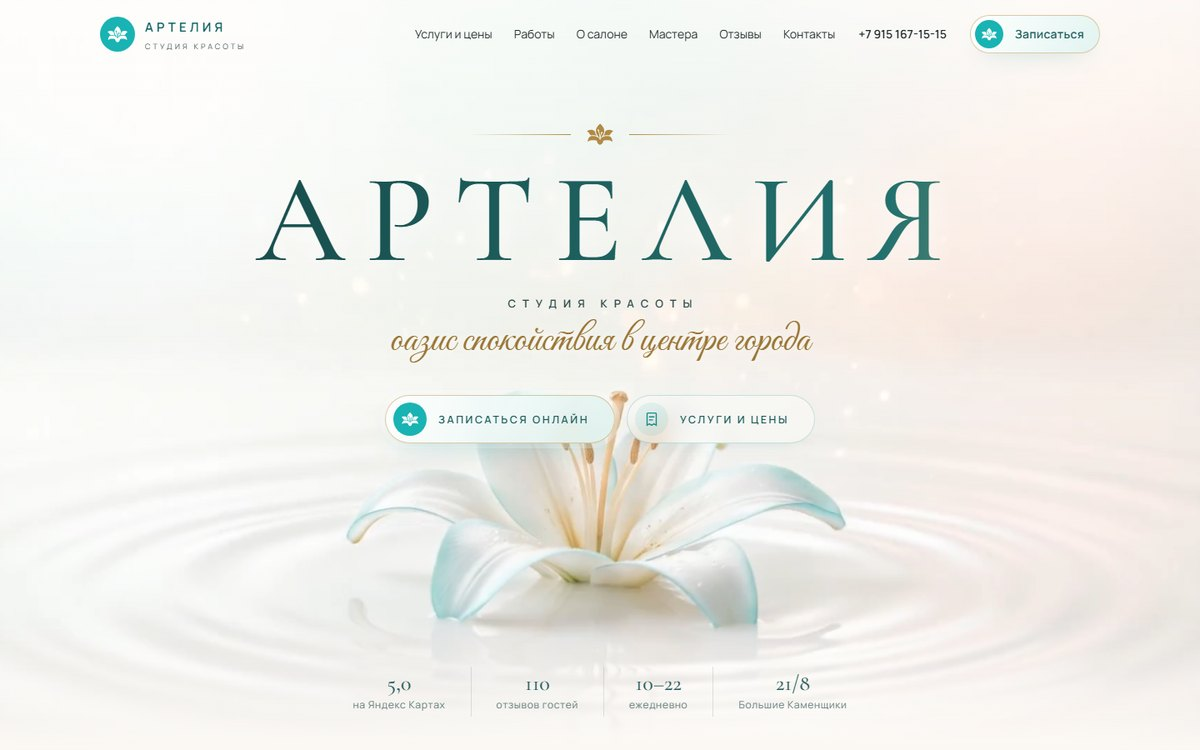
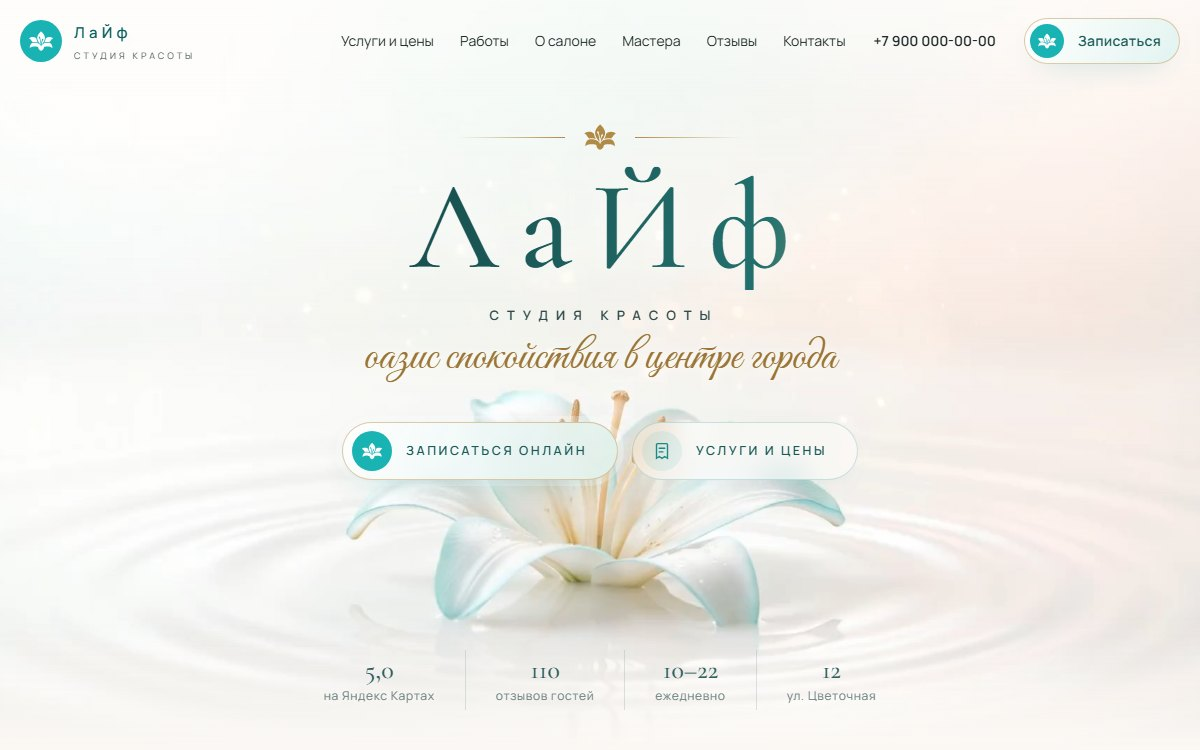
Portfolio: rename Artelia demo to LaYf, replace phone and address with demo data

diff --git a/artelia/index.html b/artelia/index.html
@@ -3,8 +3,8 @@
 <head>
 <meta charset="utf-8">
 <meta name="viewport" content="width=device-width,initial-scale=1">
-<title>Артелия — студия красоты в Москве · Большие Каменщики, 21/8</title>
-<meta name="description" content="Артелия — студия красоты в центре Москвы: маникюр, педикюр, окрашивание L’Oréal, стрижки, Brow Bar, ресницы, визаж, SPA. Ежедневно 10:00–22:00. Онлайн-запись.">
+<title>ЛаЙф — студия красоты в Москве · ул. Цветочная, 12</title>
+<meta name="description" content="ЛаЙф — студия красоты в центре Москвы: маникюр, педикюр, окрашивание L’Oréal, стрижки, Brow Bar, ресницы, визаж, SPA. Ежедневно 10:00–22:00. Онлайн-запись.">
 <link rel="icon" type="image/svg+xml" href="img/favicon.svg">
 <meta name="theme-color" content="#f6fbfa">
 <link rel="preconnect" href="https://fonts.googleapis.com"><link rel="preconnect" href="https://fonts.gstatic.com" crossorigin>
@@ -85,7 +85,7 @@ nav a:hover::after{right:0}
 .hero video{opacity:0;transition:opacity 1.6s ease}.hero video.ready{opacity:1}
 .hero .veil{position:absolute;inset:0;background:linear-gradient(180deg,rgba(253,252,250,.72) 0%,rgba(253,252,250,.25) 42%,rgba(253,252,250,0) 60%,rgba(251,245,240,.0) 82%,#fbf8f4 100%)}
 .hero-in{position:relative;z-index:2}
-/* надпись «Артелия»: золотые линии + лилия, буквы-«фольга» с бегущим бликом */
+/* надпись «ЛаЙф»: золотые линии + лилия, буквы-«фольга» с бегущим бликом */
 .brand{display:flex;flex-direction:column;align-items:center}
 .orn{display:flex;align-items:center;gap:18px;color:#b08a46}
 .orn i{display:block;height:1px;width:0;background:linear-gradient(90deg,transparent,#b08a46);transition:width 1.8s var(--ease) .3s}
@@ -439,14 +439,14 @@ nav a{white-space:nowrap}
 
 <header id="hd">
   <div class="wrap hd">
-    <a class="logo" href="#top" aria-label="Артелия — на главную">
+    <a class="logo" href="#top" aria-label="ЛаЙф — на главную">
       <span class="mk"><svg class="lily" viewBox="0 0 100 100" fill="currentColor"><use href="#lily"/></svg></span>
-      <span><b>АРТЕЛИЯ</b><small>студия красоты</small></span>
+      <span><b style="text-transform:none">ЛаЙф</b><small>студия красоты</small></span>
     </a>
     <nav id="nav">
       <a href="#services">Услуги и цены</a><a href="#works">Работы</a><a href="#about">О салоне</a><a href="#masters">Мастера</a><a href="#reviews">Отзывы</a><a href="#contacts">Контакты</a>
     </nav>
-    <a class="hd-tel" href="tel:+79151671515">+7 915 167-15-15</a>
+    <a class="hd-tel" href="tel:+79000000000">+7 900 000-00-00</a>
     <a class="btn btn-main" href="#services"><span class="bud"><svg class="lily" viewBox="0 0 100 100" fill="currentColor"><use href="#lily"/></svg></span>Записаться</a>
     <button class="burger" id="burger" aria-label="Меню"><i></i><i></i><i></i></button>
   </div>
@@ -461,7 +461,7 @@ nav a{white-space:nowrap}
   <div class="hero-in wrap">
     <div class="brand">
       <div class="orn"><i></i><svg class="lily" viewBox="0 0 100 100" fill="currentColor"><use href="#lily"/></svg><i></i></div>
-      <h1>Артелия</h1>
+      <h1 style="text-transform:none">ЛаЙф</h1>
       <p class="sub fade" style="transition-delay:1.1s">студия красоты</p>
     </div>
     <p class="script fade" style="transition-delay:1.5s">оазис спокойствия в центре города</p>
@@ -474,7 +474,7 @@ nav a{white-space:nowrap}
       <div><b>5,0</b>на Яндекс Картах</div>
       <div><b>110</b>отзывов гостей</div>
       <div><b>10–22</b>ежедневно</div>
-      <div><b>21/8</b>Большие Каменщики</div>
+      <div><b>12</b>ул. Цветочная</div>
     </div>
 </section>
 
@@ -518,12 +518,12 @@ nav a{white-space:nowrap}
     <div class="eyebrow rv">Подарочные сертификаты</div>
     <h2 class="rv">Подарите <em>время для себя</em></h2>
     <div class="gifts">
-      <div class="gift c1 rv"><svg class="bg-lily" viewBox="0 0 100 100" fill="#fff"><use href="#lily"/></svg><span class="gd"></span><div class="gl">Артелия · сертификат</div><h3>Classic</h3><div class="sum">2 000 ₽</div></div>
-      <div class="gift c2 rv" style="transition-delay:.1s"><svg class="bg-lily" viewBox="0 0 100 100" fill="#fff"><use href="#lily"/></svg><span class="gd"></span><div class="gl">Артелия · сертификат</div><h3>Standart</h3><div class="sum">3 000 ₽</div></div>
-      <div class="gift c3 rv" style="transition-delay:.2s"><svg class="bg-lily" viewBox="0 0 100 100" fill="#fff"><use href="#lily"/></svg><span class="gd"></span><div class="gl">Артелия · сертификат</div><h3>Premium</h3><div class="sum">5 000 ₽</div></div>
+      <div class="gift c1 rv"><svg class="bg-lily" viewBox="0 0 100 100" fill="#fff"><use href="#lily"/></svg><span class="gd"></span><div class="gl">ЛаЙф · сертификат</div><h3>Classic</h3><div class="sum">2 000 ₽</div></div>
+      <div class="gift c2 rv" style="transition-delay:.1s"><svg class="bg-lily" viewBox="0 0 100 100" fill="#fff"><use href="#lily"/></svg><span class="gd"></span><div class="gl">ЛаЙф · сертификат</div><h3>Standart</h3><div class="sum">3 000 ₽</div></div>
+      <div class="gift c3 rv" style="transition-delay:.2s"><svg class="bg-lily" viewBox="0 0 100 100" fill="#fff"><use href="#lily"/></svg><span class="gd"></span><div class="gl">ЛаЙф · сертификат</div><h3>Premium</h3><div class="sum">5 000 ₽</div></div>
     </div>
     <div class="gifts-cta rv">
-      <a class="btn btn-main" href="#" data-wa="Здравствуйте! Хочу купить подарочный сертификат Артелия."><span class="bud"><svg class="lily" viewBox="0 0 100 100" fill="currentColor"><use href="#lily"/></svg></span>Заказать сертификат</a>
+      <a class="btn btn-main" href="#" data-wa="Здравствуйте! Хочу купить подарочный сертификат ЛаЙф."><span class="bud"><svg class="lily" viewBox="0 0 100 100" fill="currentColor"><use href="#lily"/></svg></span>Заказать сертификат</a>
       <span style="color:var(--muted);font-size:14px">Оформим красиво — можно забрать в салоне</span>
     </div>
   </div>
@@ -566,7 +566,7 @@ nav a{white-space:nowrap}
           <label class="fld"><span>Ваше имя</span><input id="fname" autocomplete="given-name" placeholder="Как к вам обращаться"></label>
           <label class="fld"><span>Телефон</span><input id="fphone" type="tel" autocomplete="tel" placeholder="+7 (___) ___-__-__"></label>
           <label class="fld"><span>Комментарий</span><textarea id="fnote" rows="2" placeholder="Пожелания, длина волос, дизайн ногтей…"></textarea></label>
-          <p class="note">Нажимая «Отправить», вы соглашаетесь с <a href="https://drive.google.com/file/d/1Kv95Rzp1uiypy0OgzTfH0oAZEqJ2-D4X/view?usp=sharing" target="_blank" rel="noopener" style="border-bottom:1px solid var(--gold-l)">обработкой персональных данных</a>.</p>
+          <p class="note">Нажимая «Отправить», вы соглашаетесь с <a href="#" target="_blank" rel="noopener" style="border-bottom:1px solid var(--gold-l)">обработкой персональных данных</a>.</p>
         </div>
       </div>
       <aside class="visit rv" id="visit" style="scroll-margin-top:84px">
@@ -655,7 +655,7 @@ nav a{white-space:nowrap}
       <div class="rate">5,0</div>
       <div class="stars">★★★★★</div>
       <p class="lead" style="margin-top:14px">110 отзывов на Яндекс Картах</p>
-      <a class="btn btn-ghost" style="margin-top:26px" href="https://yandex.ru/maps/org/197100926797/reviews/" target="_blank" rel="noopener"><span class="bud"><svg class="lily" viewBox="0 0 100 100" fill="currentColor"><use href="#lily"/></svg></span>Читать все отзывы</a>
+      <a class="btn btn-ghost" style="margin-top:26px" href="#reviews" target="_blank" rel="noopener"><span class="bud"><svg class="lily" viewBox="0 0 100 100" fill="currentColor"><use href="#lily"/></svg></span>Читать все отзывы</a>
     </div>
     <div class="rev-box rv">
       <div class="qm">“</div>
@@ -672,21 +672,21 @@ nav a{white-space:nowrap}
     <h2 class="rv">Ждём вас <em>в гости</em></h2>
     <div class="ct-g">
       <div class="ct-card rv">
-        <div class="addr">Москва,<br>ул. Большие Каменщики, 21/8</div>
+        <div class="addr">Москва,<br>ул. Цветочная, 12</div>
         <dl>
           <dt>Часы работы</dt><dd>Ежедневно, 10:00–22:00 <span id="openNow" style="color:var(--teal-d);font-weight:600"></span></dd>
-          <dt>Телефон</dt><dd><a href="tel:+79151671515">+7 915 167-15-15</a></dd>
-          <dt>Как доехать</dt><dd><a href="https://yandex.ru/maps/?rtext=~55.735677,37.65699&rtt=auto" target="_blank" rel="noopener">Построить маршрут</a></dd>
+          <dt>Телефон</dt><dd><a href="tel:+79000000000">+7 900 000-00-00</a></dd>
+          <dt>Как доехать</dt><dd><a href="https://yandex.ru/maps/?rtext=~55.7558,37.6173&rtt=auto" target="_blank" rel="noopener">Построить маршрут</a></dd>
           <dt>Удобства</dt><dd>Парковка, Wi‑Fi, оплата картой</dd>
         </dl>
         <div class="socs">
-          <a href="https://wa.me/79151671515" target="_blank" rel="noopener">WhatsApp</a>
-          <a href="https://t.me/arteliaaaaa" target="_blank" rel="noopener">Telegram</a>
-          <a href="https://vk.ru/club236209753" target="_blank" rel="noopener">ВКонтакте</a>
-          <a href="https://max.ru/join/g575b3gF1ZYqdeo7p6HdIVQ3R1XQzKgaco8oCC1gjvQ" target="_blank" rel="noopener">Канал в Max</a>
+          <a href="https://wa.me/79000000000" target="_blank" rel="noopener">WhatsApp</a>
+          <a href="#" target="_blank" rel="noopener">Telegram</a>
+          <a href="#" target="_blank" rel="noopener">ВКонтакте</a>
+          <a href="#" target="_blank" rel="noopener">Канал в Max</a>
         </div>
       </div>
-      <div class="map rv"><iframe title="Артелия на карте" loading="lazy" src="https://yandex.ru/map-widget/v1/?ll=37.656990%2C55.735677&z=16&pt=37.656990%2C55.735677%2Cpm2gnm"></iframe></div>
+      <div class="map rv"><iframe title="ЛаЙф на карте" loading="lazy" src="https://yandex.ru/map-widget/v1/?ll=37.617300%2C55.755800&z=16&pt=37.617300%2C55.755800%2Cpm2gnm"></iframe></div>
     </div>
   </div>
 </section>
@@ -695,18 +695,18 @@ nav a{white-space:nowrap}
 <footer>
   <div class="wrap">
     <div class="ft">
-      <div><div class="big">Артелия</div><p class="script" style="font-size:34px;color:var(--gold);margin-top:6px">студия красоты</p></div>
+      <div><div class="big" style="text-transform:none">ЛаЙф</div><p class="script" style="font-size:34px;color:var(--gold);margin-top:6px">студия красоты</p></div>
       <div><h5>Салон</h5><a href="#services">Услуги и цены</a><a href="#promo">Акции</a><a href="#gifts">Сертификаты</a><a href="#works">Работы</a><a href="#reviews">Отзывы</a></div>
-      <div><h5>Связь</h5><a href="tel:+79151671515">+7 915 167-15-15</a><a href="https://wa.me/79151671515" target="_blank" rel="noopener">WhatsApp</a><a href="https://t.me/arteliaaaaa" target="_blank" rel="noopener">Telegram</a><p>Большие Каменщики, 21/8<br>ежедневно 10:00–22:00</p></div>
+      <div><h5>Связь</h5><a href="tel:+79000000000">+7 900 000-00-00</a><a href="https://wa.me/79000000000" target="_blank" rel="noopener">WhatsApp</a><a href="#" target="_blank" rel="noopener">Telegram</a><p>ул. Цветочная, 12<br>ежедневно 10:00–22:00</p></div>
     </div>
     <div class="legal">
-      <span>© <span id="yr"></span> Артелия · ИП Ахромина Наталья Германовна</span>
-      <span><a href="https://drive.google.com/file/d/1Sjd918erkLfy0k1FO5l5yW-FLNi3WIou/view?usp=drive_link" target="_blank" rel="noopener">Публичная оферта</a> · <a href="https://drive.google.com/file/d/1_8r2j_rk8HgPZwWjdrxEYg-YrL-tH8IZ/view?usp=sharing" target="_blank" rel="noopener">Политика конфиденциальности</a> · <a href="https://drive.google.com/file/d/1Kv95Rzp1uiypy0OgzTfH0oAZEqJ2-D4X/view?usp=sharing" target="_blank" rel="noopener">Согласие на обработку ПД</a></span>
+      <span>© <span id="yr"></span> ЛаЙф · демо-проект студии Davydov</span>
+      <span><a href="#" target="_blank" rel="noopener">Публичная оферта</a> · <a href="#" target="_blank" rel="noopener">Политика конфиденциальности</a> · <a href="#" target="_blank" rel="noopener">Согласие на обработку ПД</a></span>
     </div>
   </div>
 </footer>
 
-<div class="mcta"><a class="a1" href="#services">Записаться</a><a class="a2" href="tel:+79151671515">Позвонить</a></div>
+<div class="mcta"><a class="a1" href="#services">Записаться</a><a class="a2" href="tel:+79000000000">Позвонить</a></div>
 <div class="lbx" id="lbx"><img id="lbxImg" alt=""><button class="x" aria-label="Закрыть">✕</button><button class="pv" aria-label="Назад">←</button><button class="nx" aria-label="Вперёд">→</button></div>
 <div class="toast" id="toast"></div>
 
@@ -715,7 +715,7 @@ nav a{white-space:nowrap}
 /* ===== Настройки заявок =====
    Если указать tgToken и tgChatId — заявка уйдёт в Telegram-бота салона.
    Иначе откроется WhatsApp салона с готовым текстом заявки. */
-const CONFIG={tgToken:'',tgChatId:'',whatsapp:'79151671515'};
+const CONFIG={tgToken:'',tgChatId:'',whatsapp:'79000000000'};
 
 const $=s=>document.querySelector(s),$$=s=>[...document.querySelectorAll(s)];
 const LP=document.querySelector('#lily .lily-g').innerHTML;
@@ -824,7 +824,7 @@ function renderVisit(){const it=[...cart.entries()];
  else{b.disabled=!ok;t.textContent=ok?'Отправить заявку':'Укажите имя и телефон'}}
 $('#vlist').onclick=e=>{const b=e.target.closest('button[data-k]');if(!b)return;cart.delete(b.dataset.k);renderList();renderVisit()};
 $('#send').onclick=async()=>{if(step<2){go(step+1);$('#services').scrollIntoView({behavior:'smooth'});return}
- const it=[...cart.values()];const txt=`Заявка с сайта Артелия\n\nУслуги:\n${it.map(v=>'• '+v.n+(v.p?' — '+fmt(v.p):'')).join('\n')}\nИтого от: ${fmt(it.reduce((a,v)=>a+v.p,0))}\n\nКогда: ${$('#vwhen').textContent.replace('🗓 ','')||'уточнить'}\nМастер: ${selM}\nИмя: ${$('#fname').value.trim()}\nТелефон: ${$('#fphone').value.trim()}${$('#fnote').value.trim()?'\nКомментарий: '+$('#fnote').value.trim():''}`;
+ const it=[...cart.values()];const txt=`Заявка с сайта ЛаЙф\n\nУслуги:\n${it.map(v=>'• '+v.n+(v.p?' — '+fmt(v.p):'')).join('\n')}\nИтого от: ${fmt(it.reduce((a,v)=>a+v.p,0))}\n\nКогда: ${$('#vwhen').textContent.replace('🗓 ','')||'уточнить'}\nМастер: ${selM}\nИмя: ${$('#fname').value.trim()}\nТелефон: ${$('#fphone').value.trim()}${$('#fnote').value.trim()?'\nКомментарий: '+$('#fnote').value.trim():''}`;
  if(CONFIG.tgToken&&CONFIG.tgChatId){try{const r=await fetch(`https://api.telegram.org/bot${CONFIG.tgToken}/sendMessage`,{method:'POST',headers:{'content-type':'application/json'},body:JSON.stringify({chat_id:CONFIG.tgChatId,text:txt})});if(!r.ok)throw 0;toast('Спасибо! Администратор скоро свяжется с вами 🌿');cart.clear();renderList();renderVisit();return}catch(e){}}
  open('https://wa.me/'+CONFIG.whatsapp+'?text='+encodeURIComponent(txt),'_blank')};
 function toast(t){const e=$('#toast');e.textContent=t;e.classList.add('on');setTimeout(()=>e.classList.remove('on'),4200)}
@@ -843,7 +843,7 @@ new IntersectionObserver((es,o)=>{if(es[0].isIntersecting){sweep();o.disconnect(
 
 /* works + lightbox */
 const WK=window.WORKS;let wf='all';
-$('#worksG').innerHTML=WK.map((w,i)=>`<figure data-t="${w[0]}" data-i="${i}"><img loading="lazy" src="${w[1]}" alt="Работа мастеров Артелии"></figure>`).join('');
+$('#worksG').innerHTML=WK.map((w,i)=>`<figure data-t="${w[0]}" data-i="${i}"><img loading="lazy" src="${w[1]}" alt="Работа мастеров ЛаЙф"></figure>`).join('');
 $('#filters').onclick=e=>{const b=e.target.closest('button');if(!b)return;wf=b.dataset.f;$$('#filters button').forEach(x=>x.classList.toggle('on',x===b));$$('#worksG figure').forEach(f=>f.classList.toggle('hide',wf!=='all'&&f.dataset.t!==wf))};
 let li=0;const vis=()=>$$('#worksG figure:not(.hide)');
 $('#worksG').onclick=e=>{const f=e.target.closest('figure');if(!f)return;li=vis().indexOf(f);showL()};

diff --git a/index.html b/index.html
@@ -804,8 +804,8 @@ footer{padding-block:40px calc(30px + env(safe-area-inset-bottom,0px));border-to
         <div class="pf-meta"><span class="mono">Android · RuStore</span><h3>Remind me: голосовой календарь</h3><p>Нажали кнопку, сказали «завтра в 9 позвонить маме», и дело уже в календаре. Работает без интернета.</p></div>
       </div>
       <a class="pf" href="artelia/" target="_blank" rel="noopener">
-        <div class="pf-shot"><div class="pf-bar"><i></i><i></i><i></i><span>Артелия</span></div><img src="work/artelia.jpg" alt="Артелия: сайт студии красоты с видео-лилией и онлайн-записью" loading="lazy"></div>
-        <div class="pf-meta"><span class="mono">Студия красоты</span><h3>Артелия: видео-лилия на главной, прайс из 158 услуг и запись в три шага</h3></div>
+        <div class="pf-shot"><div class="pf-bar"><i></i><i></i><i></i><span>ЛаЙф</span></div><img src="work/artelia.jpg" alt="ЛаЙф: сайт студии красоты с видео-лилией и онлайн-записью" loading="lazy"></div>
+        <div class="pf-meta"><span class="mono">Студия красоты</span><h3>ЛаЙф: видео-лилия на главной, прайс из 158 услуг и запись в три шага</h3></div>
       </a>
       <a class="pf" href="https://rustiming.com/" target="_blank" rel="noopener">
         <div class="pf-shot"><div class="pf-bar"><i></i><i></i><i></i><span>rustiming.com</span></div><img src="work/rustiming.jpg" alt="РусТайминг: платформа спортивного хронометража" loading="lazy"></div>
